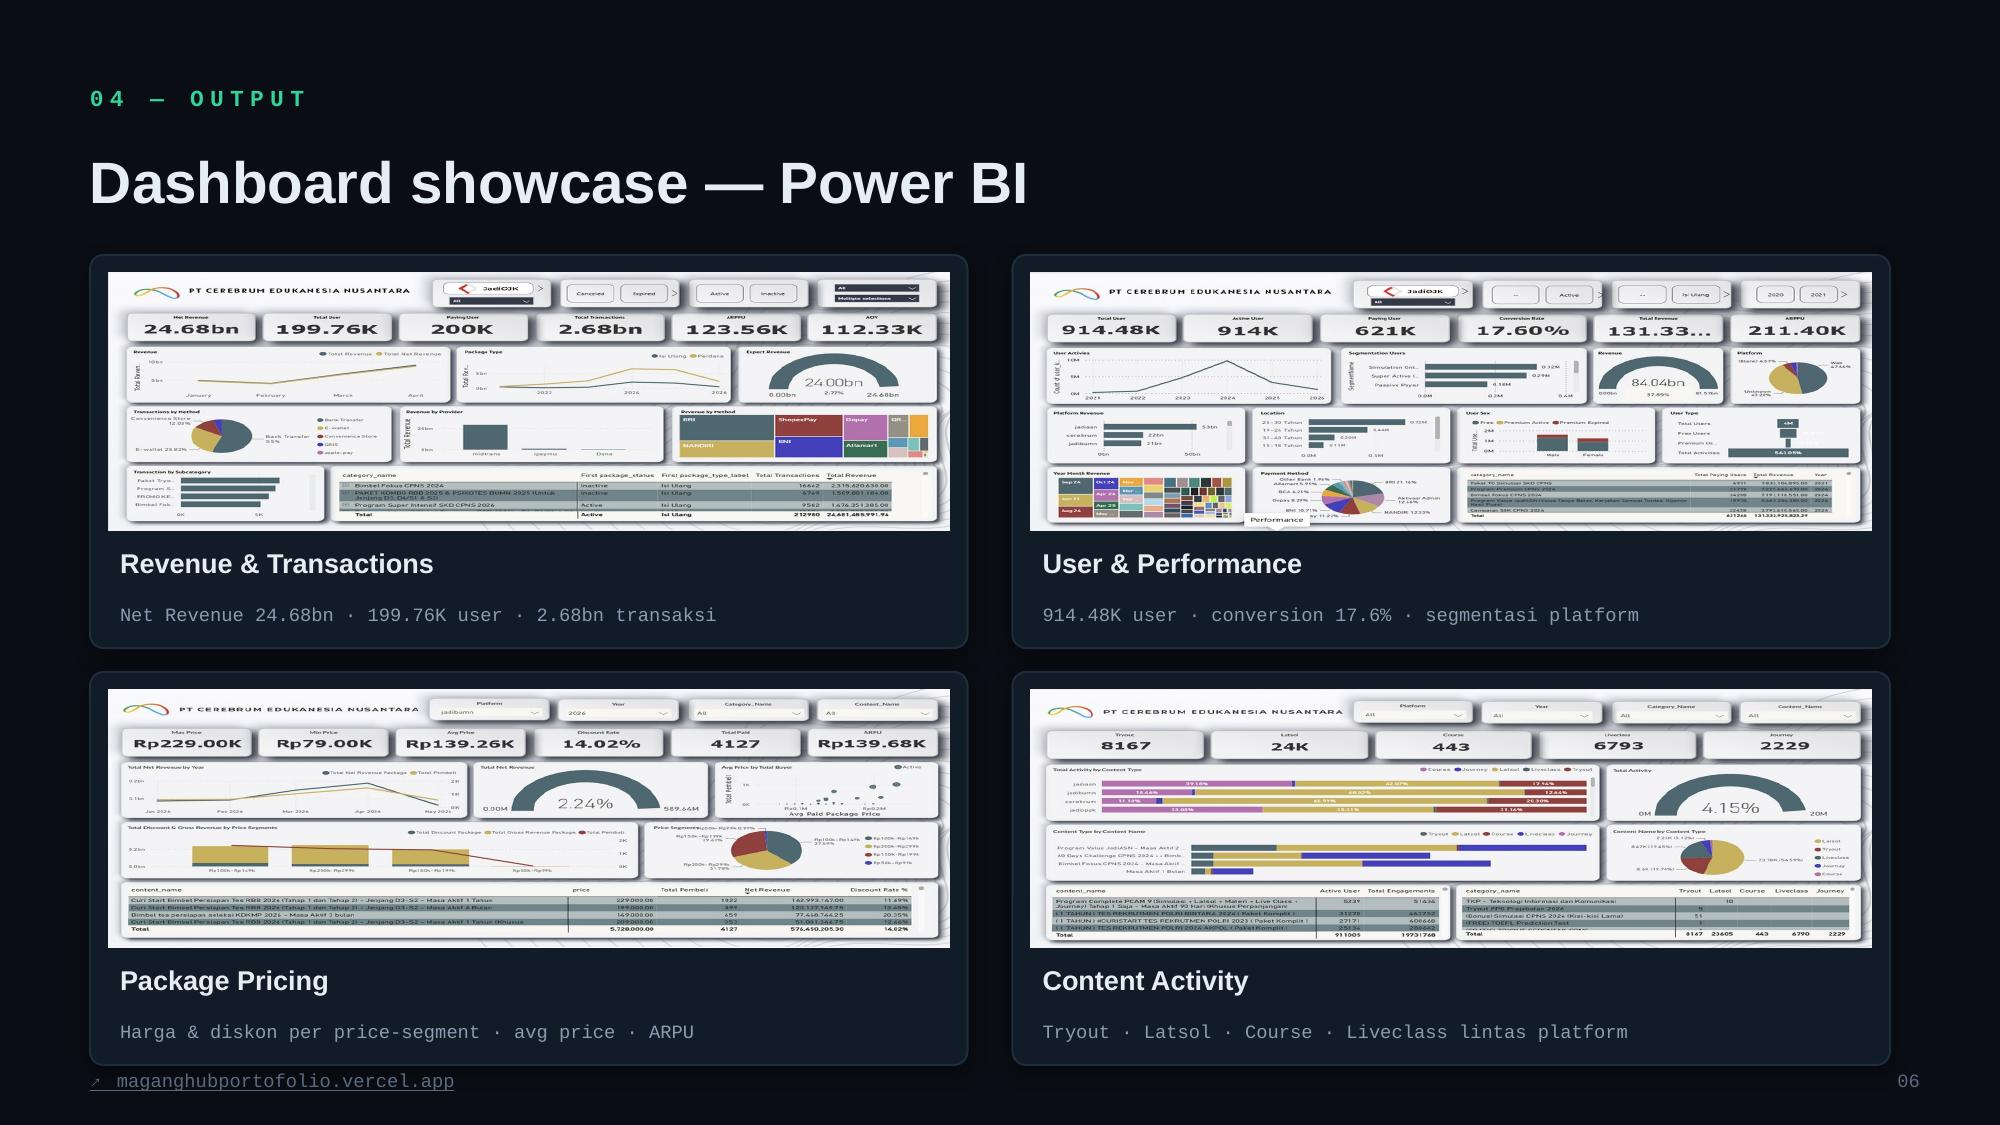
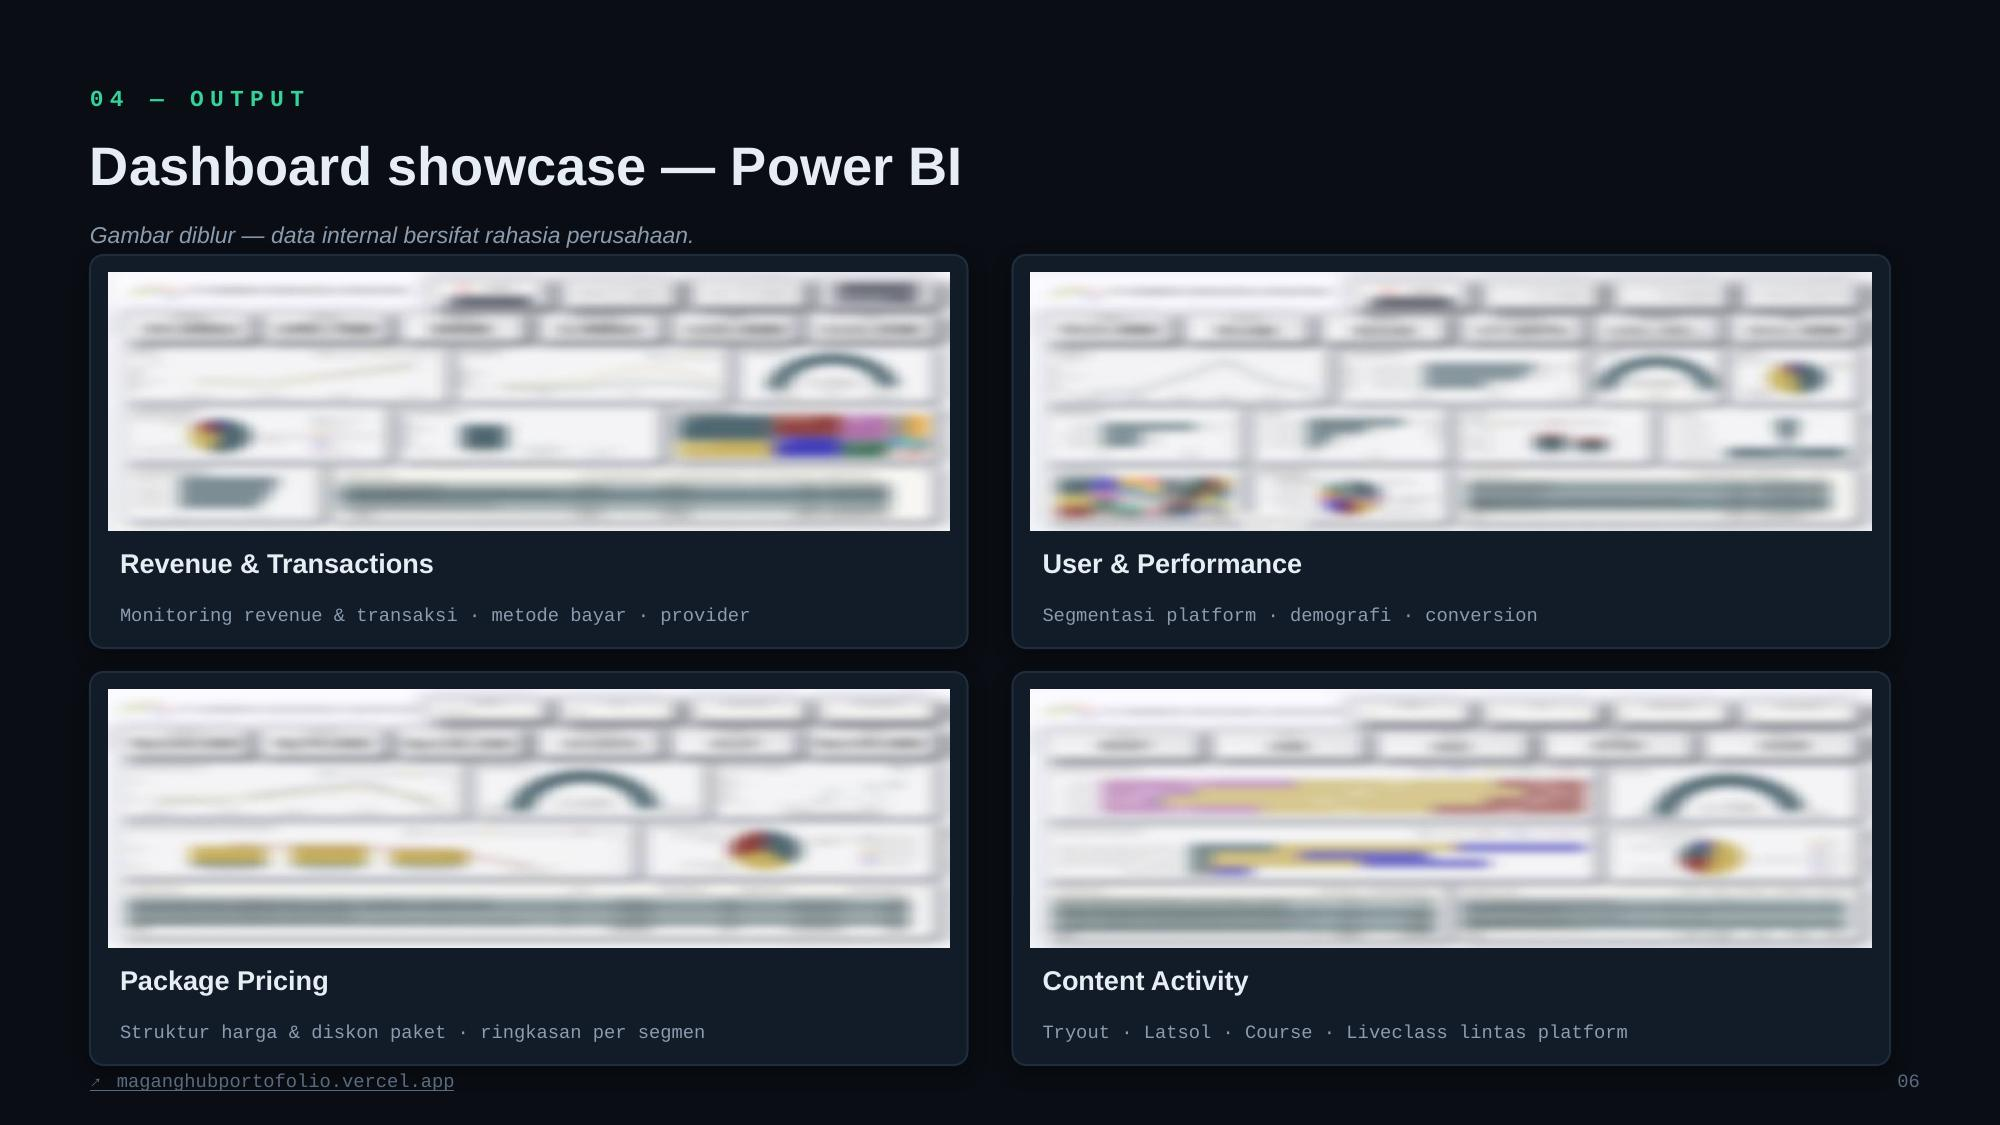
Blur confidential dashboards + generalize captions

diff --git a/index.html b/index.html
@@ -596,28 +596,28 @@
     <div class="sec-head reveal">
       <span class="eyebrow" data-i18n="dash.eyebrow">04 — Output</span>
       <h2 data-i18n="dash.h2">Dashboard showcase</h2>
-      <p data-i18n="dash.p">Empat dashboard Power BI produksi yang dibangun di atas arsitektur tersebut. Klik untuk memperbesar.</p>
+      <p data-i18n="dash.p">Empat dashboard Power BI produksi yang dibangun di atas arsitektur tersebut. Gambar sengaja diblur — data internal bersifat rahasia perusahaan.</p>
     </div>
     <div class="dash-grid">
-      <div class="dash reveal" data-full="dashboard-revenue.png">
-        <div class="dash-top"><span class="tt">Revenue & Transactions</span><span class="badge">JadiOJK</span></div>
-        <img src="dashboard-revenue.png" alt="Dashboard Revenue & Transactions" loading="lazy">
-        <div class="dash-cap" data-i18n-html="dash.cap1">Net Revenue <b>24.68bn</b> · 199.76K user · 2.68bn transaksi — breakdown metode bayar & provider.</div>
+      <div class="dash reveal" data-full="dashboard-revenue.jpg">
+        <div class="dash-top"><span class="tt">Revenue & Transactions</span><span class="badge">Power BI</span></div>
+        <img src="dashboard-revenue.jpg" alt="Dashboard Power BI — revenue (blurred)" loading="lazy">
+        <div class="dash-cap" data-i18n="dash.cap1">Monitoring revenue & transaksi — tren pendapatan, metode pembayaran, dan provider.</div>
       </div>
-      <div class="dash reveal" data-full="dashboard-user.png">
-        <div class="dash-top"><span class="tt">User & Performance</span><span class="badge">Analytics</span></div>
-        <img src="dashboard-user.png" alt="Dashboard User & Performance" loading="lazy">
-        <div class="dash-cap" data-i18n-html="dash.cap2">914.48K total user · conversion rate <b>17.6%</b> — segmentasi platform, demografi & sales.</div>
+      <div class="dash reveal" data-full="dashboard-user.jpg">
+        <div class="dash-top"><span class="tt">User & Performance</span><span class="badge">Power BI</span></div>
+        <img src="dashboard-user.jpg" alt="Dashboard Power BI — user (blurred)" loading="lazy">
+        <div class="dash-cap" data-i18n="dash.cap2">Analisis user & performa — segmentasi platform, demografi, dan conversion.</div>
       </div>
-      <div class="dash reveal" data-full="dashboard-package.png">
-        <div class="dash-top"><span class="tt">Package Pricing</span><span class="badge">jadiBUMN</span></div>
-        <img src="dashboard-package.png" alt="Dashboard Package Pricing" loading="lazy">
-        <div class="dash-cap" data-i18n="dash.cap3">Analisis harga & diskon paket per price-segment — avg price, discount rate, ARPU.</div>
+      <div class="dash reveal" data-full="dashboard-package.jpg">
+        <div class="dash-top"><span class="tt">Package Pricing</span><span class="badge">Power BI</span></div>
+        <img src="dashboard-package.jpg" alt="Dashboard Power BI — package (blurred)" loading="lazy">
+        <div class="dash-cap" data-i18n="dash.cap3">Analisis harga & paket — struktur pricing, diskon, dan ringkasan per segmen.</div>
       </div>
-      <div class="dash reveal" data-full="dashboard-activity.png">
-        <div class="dash-top"><span class="tt">Content Activity</span><span class="badge">All Platforms</span></div>
-        <img src="dashboard-activity.png" alt="Dashboard Content Activity" loading="lazy">
-        <div class="dash-cap" data-i18n="dash.cap4">Aktivitas Tryout · Latsol · Course · Liveclass · Journey lintas platform & konten.</div>
+      <div class="dash reveal" data-full="dashboard-activity.jpg">
+        <div class="dash-top"><span class="tt">Content Activity</span><span class="badge">Power BI</span></div>
+        <img src="dashboard-activity.jpg" alt="Dashboard Power BI — activity (blurred)" loading="lazy">
+        <div class="dash-cap" data-i18n="dash.cap4">Aktivitas konten — tryout, latsol, course, dan liveclass lintas platform.</div>
       </div>
     </div>
   </div>
@@ -851,11 +851,11 @@
       "arch.ap2":"<b>Pemodelan star schema.</b> Rancang tabel fakta & dimensi agar query cepat dan relasi bersih.",
       "arch.ap3":"<b>Power BI live.</b> Hubungkan Power BI ke MySQL — dashboard update tanpa ekspor manual.",
       "arch.ap4":"<b>Siap untuk keputusan.</b> KPI revenue, user, dan paket siap dipakai untuk keputusan strategis.",
-      "dash.eyebrow":"04 — Output","dash.h2":"Showcase dashboard","dash.p":"Empat dashboard Power BI produksi yang dibangun di atas arsitektur tersebut. Klik untuk memperbesar.",
-      "dash.cap1":"Net Revenue <b>24.68bn</b> · 199.76K user · 2.68bn transaksi — breakdown metode bayar & provider.",
-      "dash.cap2":"914.48K total user · conversion rate <b>17.6%</b> — segmentasi platform, demografi & sales.",
-      "dash.cap3":"Analisis harga & diskon paket per price-segment — avg price, discount rate, ARPU.",
-      "dash.cap4":"Aktivitas Tryout · Latsol · Course · Liveclass · Journey lintas platform & konten.",
+      "dash.eyebrow":"04 — Output","dash.h2":"Showcase dashboard","dash.p":"Empat dashboard Power BI produksi yang dibangun di atas arsitektur tersebut. Gambar sengaja diblur — data internal bersifat rahasia perusahaan.",
+      "dash.cap1":"Monitoring revenue & transaksi — tren pendapatan, metode pembayaran, dan provider.",
+      "dash.cap2":"Analisis user & performa — segmentasi platform, demografi, dan conversion.",
+      "dash.cap3":"Analisis harga & paket — struktur pricing, diskon, dan ringkasan per segmen.",
+      "dash.cap4":"Aktivitas konten — tryout, latsol, course, dan liveclass lintas platform.",
       "proj.eyebrow":"06 — Karya","proj.h2":"Proyek & dampak","proj.p":"Aplikasi, otomasi, dan analisis bisnis lain yang saya kerjakan.",
       "proj.1":"Aplikasi analisis data Zoom untuk memantau liveclass — dibangun dengan Python & Streamlit, di-deploy live.",
       "proj.2":"Dashboard analisis & optimasi harga paket produk, membantu tim marketing menentukan strategi pricing.",
@@ -901,11 +901,11 @@
       "arch.ap2":"<b>Star schema modeling.</b> Design fact & dimension tables for fast queries and clean relations.",
       "arch.ap3":"<b>Live Power BI.</b> Connect Power BI to MySQL — dashboards update with no manual exports.",
       "arch.ap4":"<b>Decision-ready.</b> Revenue, user, and package KPIs ready for strategic decisions.",
-      "dash.eyebrow":"04 — Output","dash.h2":"Dashboard showcase","dash.p":"Four production Power BI dashboards built on that architecture. Click to enlarge.",
-      "dash.cap1":"Net Revenue <b>24.68bn</b> · 199.76K users · 2.68bn transactions — payment method & provider breakdown.",
-      "dash.cap2":"914.48K total users · conversion rate <b>17.6%</b> — platform, demographic & sales segmentation.",
-      "dash.cap3":"Package price & discount analysis per price-segment — avg price, discount rate, ARPU.",
-      "dash.cap4":"Tryout · Latsol · Course · Liveclass · Journey activity across platforms & content.",
+      "dash.eyebrow":"04 — Output","dash.h2":"Dashboard showcase","dash.p":"Four production Power BI dashboards built on that architecture. Images are intentionally blurred — internal data is company-confidential.",
+      "dash.cap1":"Revenue & transaction monitoring — revenue trends, payment methods, and providers.",
+      "dash.cap2":"User & performance analysis — platform segmentation, demographics, and conversion.",
+      "dash.cap3":"Pricing & package analysis — pricing structure, discounts, and per-segment summary.",
+      "dash.cap4":"Content activity — tryout, latsol, course, and liveclass across platforms.",
       "proj.eyebrow":"06 — Work","proj.h2":"Projects & impact","proj.p":"Other apps, automations, and business analyses I've worked on.",
       "proj.1":"A Zoom data-analysis app to monitor live classes — built with Python & Streamlit, deployed live.",
       "proj.2":"A package pricing analysis & optimization dashboard that helps the marketing team set pricing strategy.",